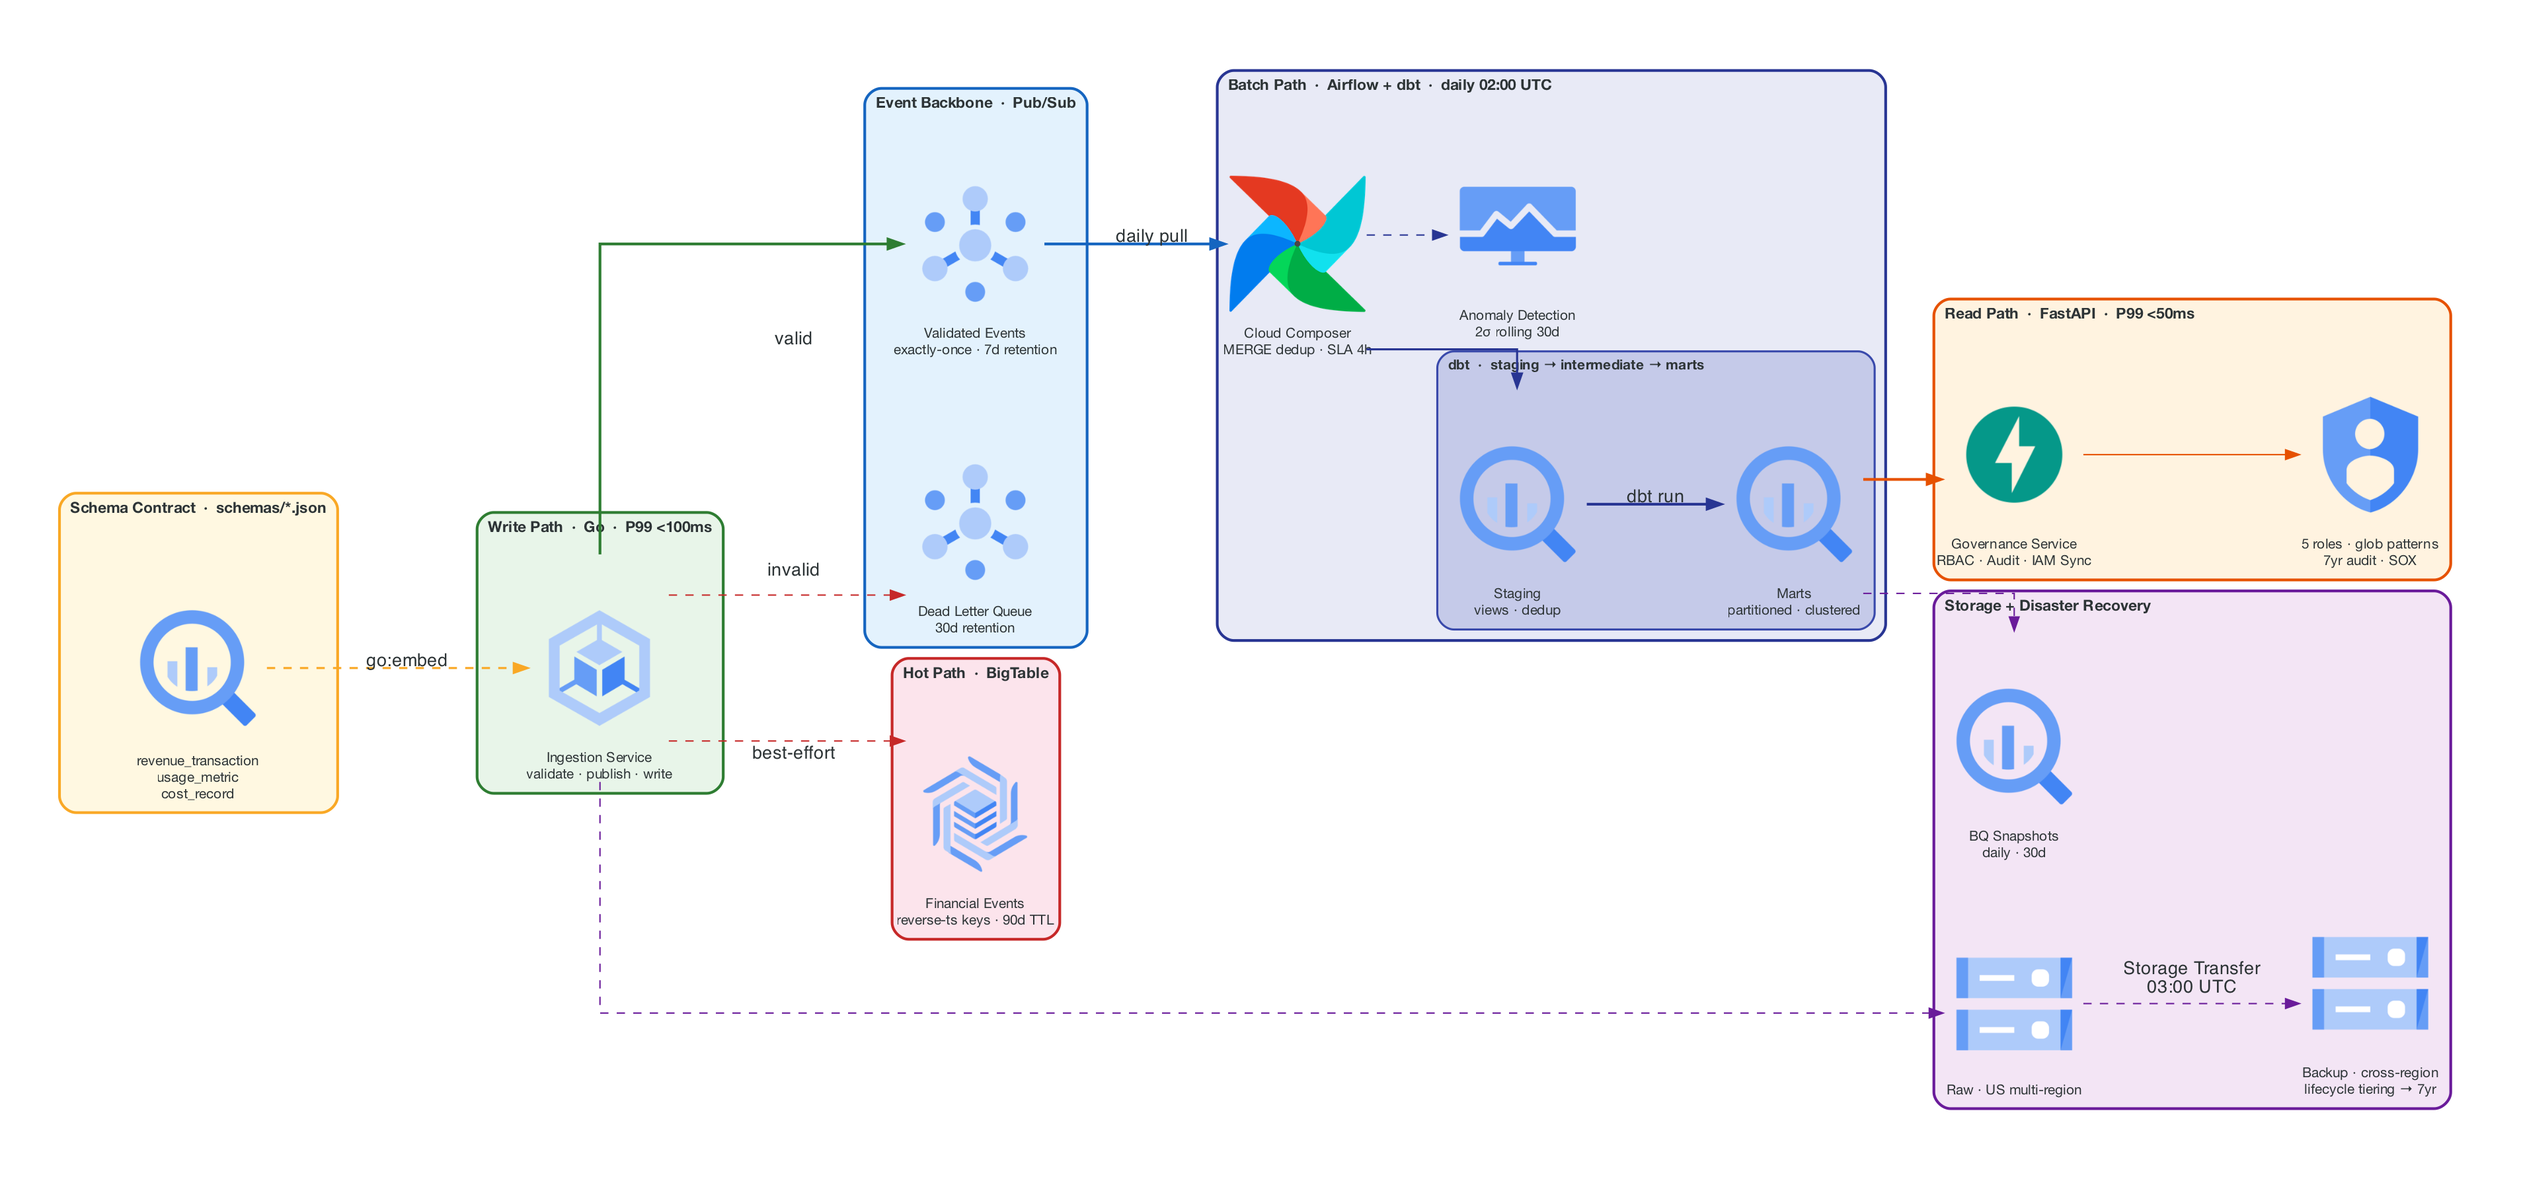
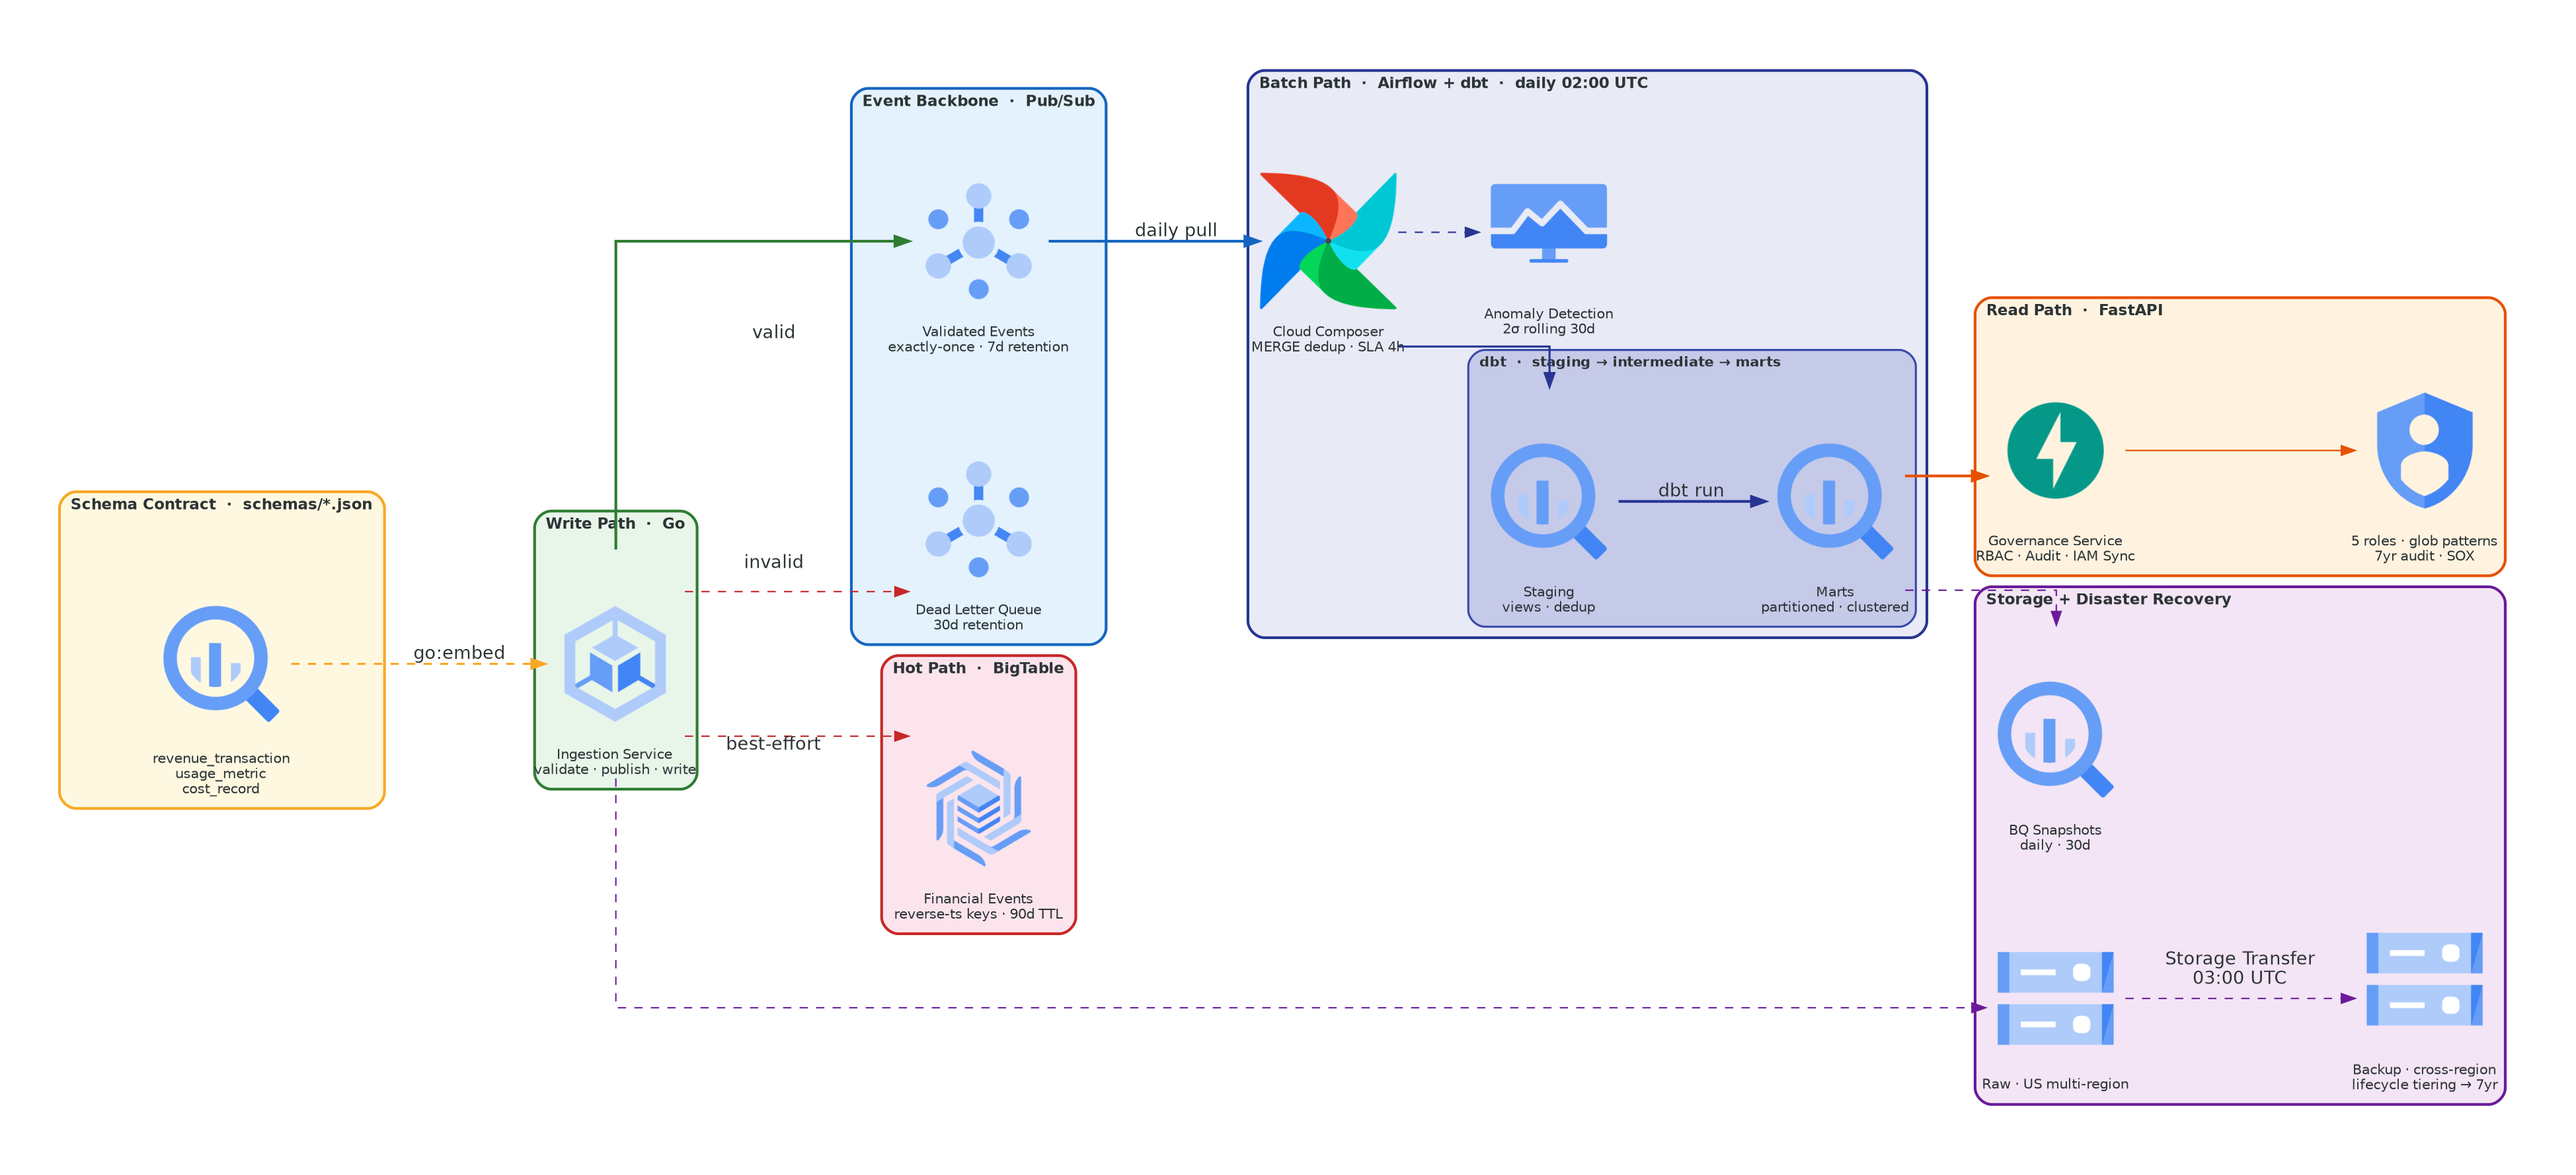
docs(diagrams): remove latency labels from the architecture diagram
Remove the write-path and read-path latency labels from
scripts/generate_diagrams.py and re-render architecture.png
(graphviz 2.43, DejaVu font fallback); the other two diagrams are unchanged.

diff --git a/scripts/generate_diagrams.py b/scripts/generate_diagrams.py
@@ -55,7 +55,7 @@ def architecture_diagram():
 
         # --- Write path ---
         with Cluster(
-            "Write Path  ·  Go  ·  P99 <100ms",
+            "Write Path  ·  Go",
             graph_attr={
                 "bgcolor": "#E8F5E9",
                 "style": "rounded",
@@ -126,7 +126,7 @@ def architecture_diagram():
 
         # --- Read path ---
         with Cluster(
-            "Read Path  ·  FastAPI  ·  P99 <50ms",
+            "Read Path  ·  FastAPI",
             graph_attr={
                 "bgcolor": "#FFF3E0",
                 "style": "rounded",
